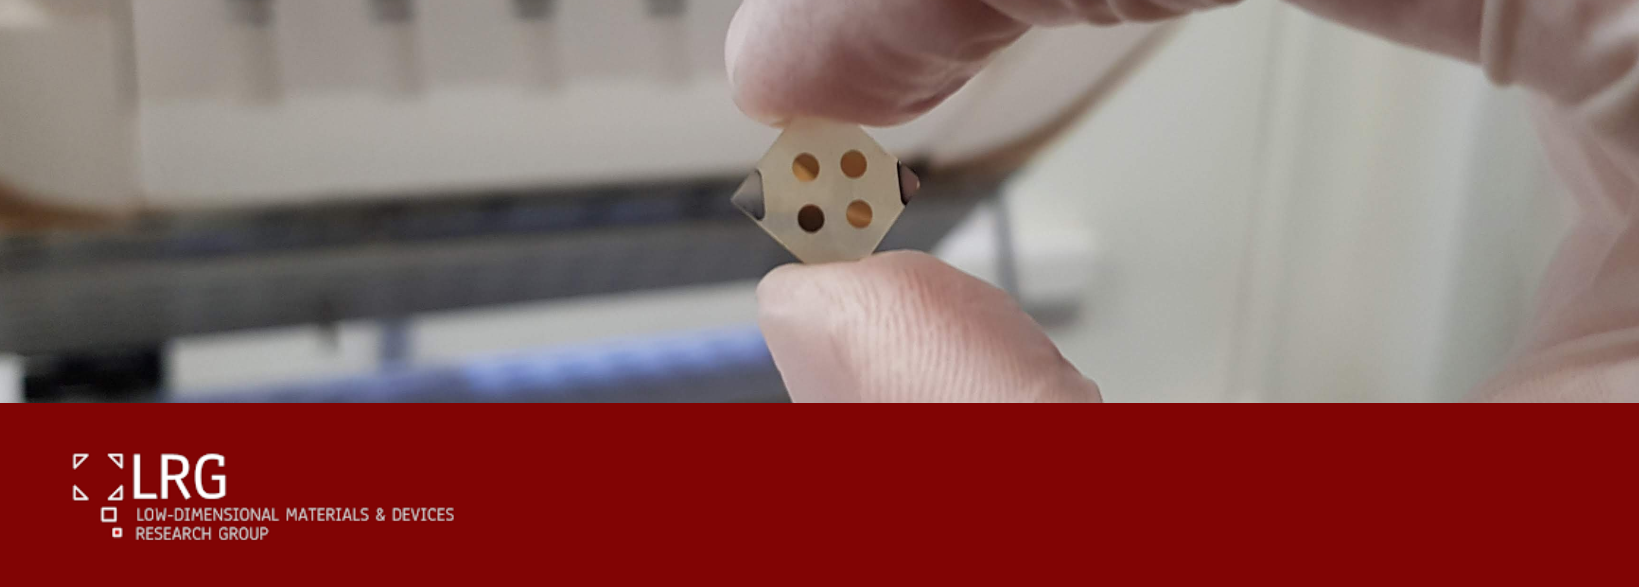
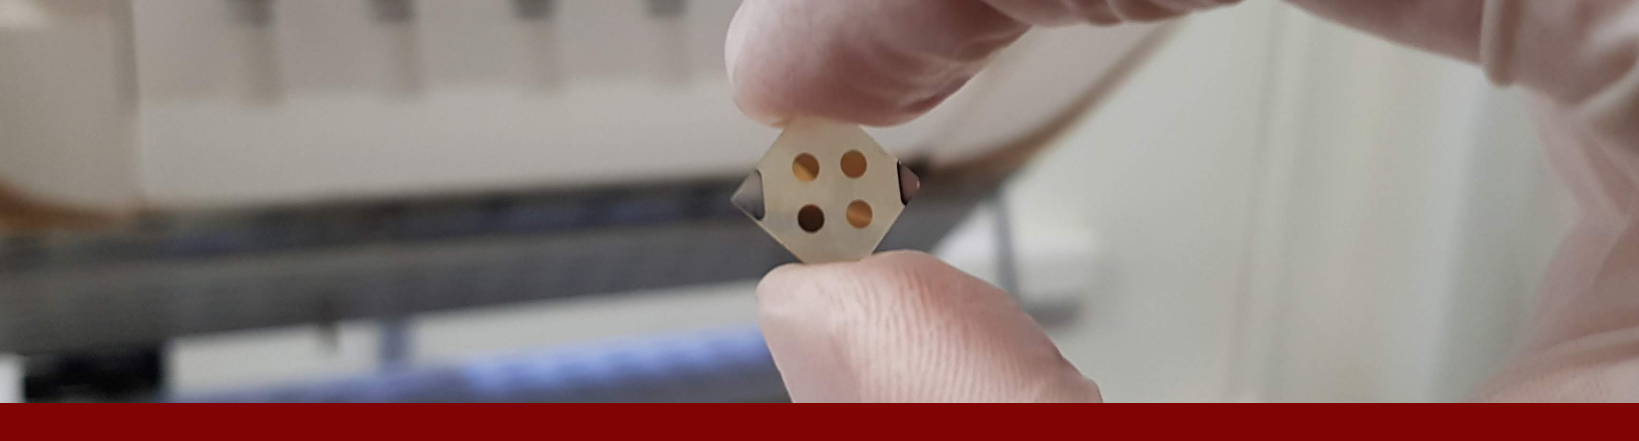
Cleaning design

diff --git a/_includes/header.html b/_includes/header.html
@@ -7,7 +7,7 @@
         <div class='o-grid'>
           <div class='o-grid__col o-grid__col--3-4-s'>
             <div class='c-logo u-text-left'>
-              <a class='c-logo__link' href='{{ site.baseurl }}/'><img src='{{ site.baseurl }}/files/bannerthin.png'></a>
+              <a class='c-logo__link' href='{{ site.baseurl }}/'><img src='{{ site.baseurl }}/files/logo.png'></a>
             </div>
           </div>
 

diff --git a/_pages/newsarchive.md b/_pages/newsarchive.md
@@ -1,7 +1,7 @@
 ---
 layout: page
 title: News Archive
-image: '/files/bannerthin.png'
+image: '/files/ribbon.png'
 ---
 
 ## News Archive

diff --git a/_pages/publications.md b/_pages/publications.md
@@ -1,7 +1,7 @@
 ---
 layout: page
 title: Publications
-image: '/files/bannerthin.png'
+image: '/files/ribbon.png'
 ---
 
 # Publications

diff --git a/_pages/facilities.md b/_pages/facilities.md
@@ -1,7 +1,7 @@
 ---
 layout: page
 title: Facilities
-image: '/files/bannerthin.png'
+image: '/files/ribbon.png'
 ---
 
 # Facilities

diff --git a/_pages/research.md b/_pages/research.md
@@ -1,7 +1,7 @@
 ---
 layout: page
 title: Research
-image: '/files/bannerthin.png'
+image: '/files/ribbon.png'
 ---
 
 # Research

diff --git a/_pages/funding.md b/_pages/funding.md
@@ -1,7 +1,7 @@
 ---
 layout: page
 title: Funding
-image: '/files/bannerthin.png'
+image: '/files/ribbon.png'
 ---
 
 # Funding

diff --git a/_pages/gallery.md b/_pages/gallery.md
@@ -1,7 +1,7 @@
 ---
 layout: page
 title: Gallery
-image: '/files/bannerthin.png'
+image: '/files/ribbon.png'
 ---
 
 # Gallery

diff --git a/_pages/members.md b/_pages/members.md
@@ -1,7 +1,7 @@
 ---
 layout: page
 title: Members
-image: '/files/bannerthin.png'
+image: '/files/ribbon.png'
 ---
 
 # Members
